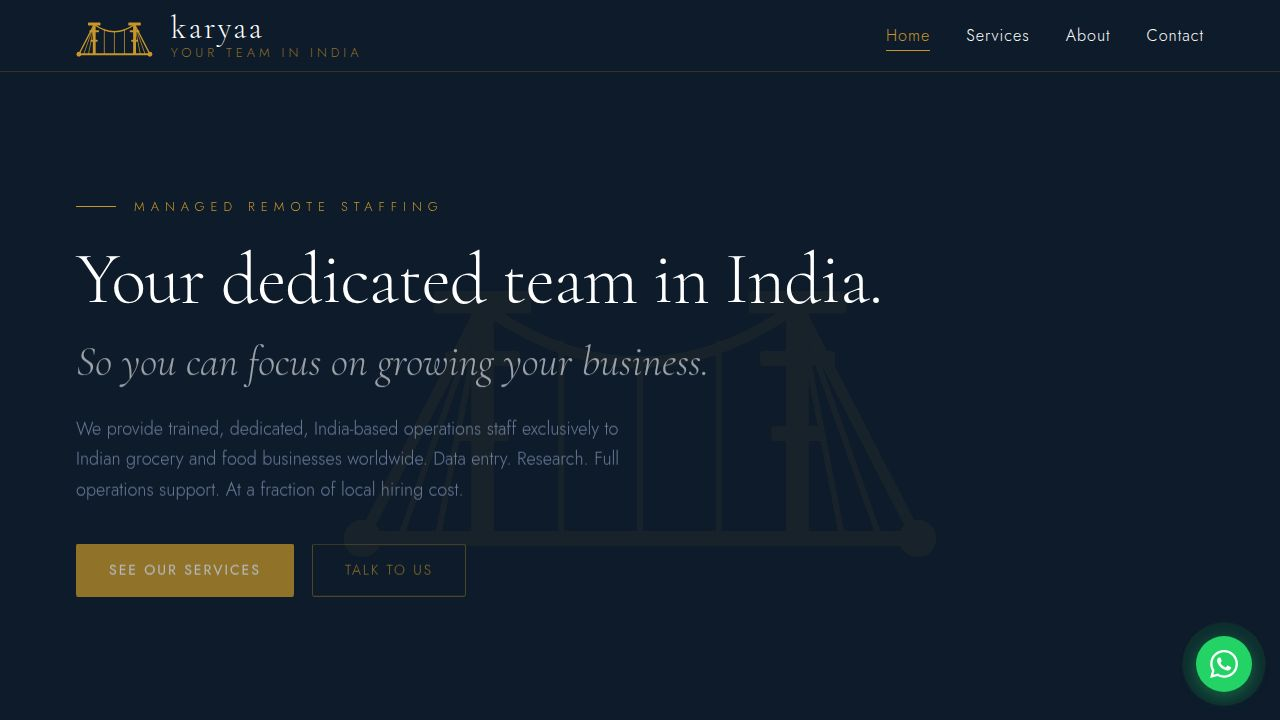
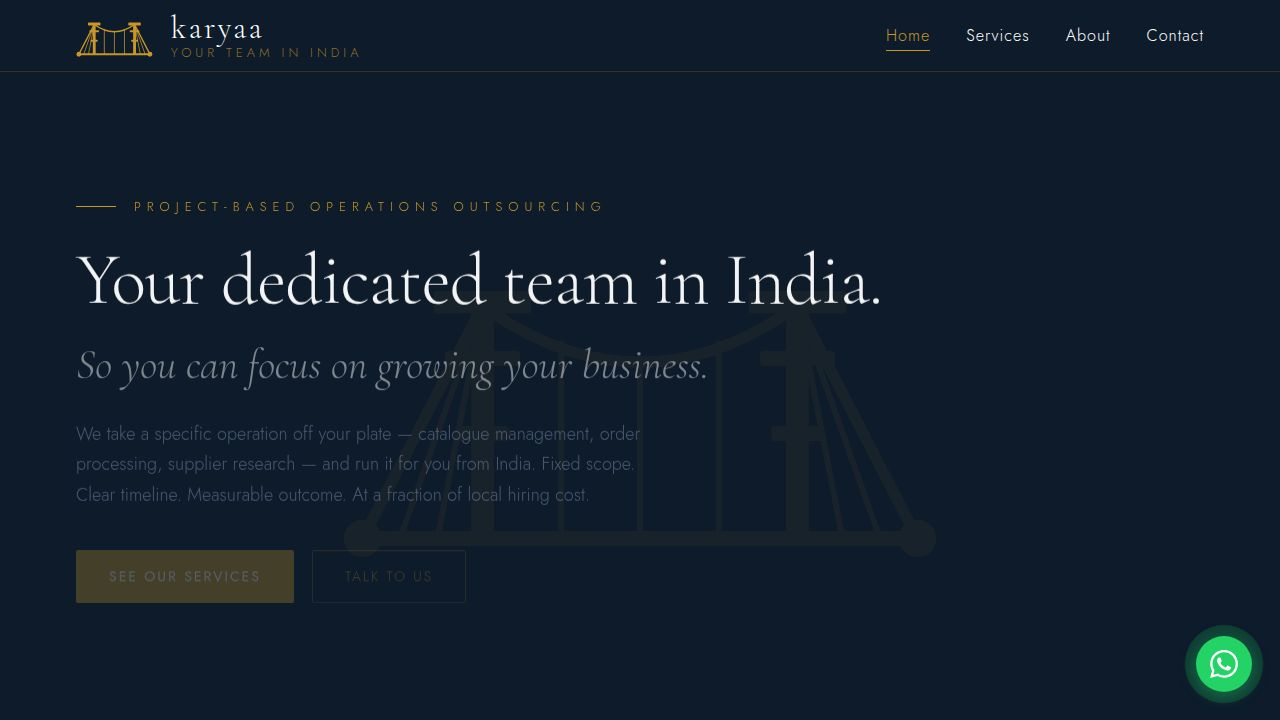
Add 'Real Projects' section to homepage (Task #70)
Inserted a new Section D between the "How It Works" section and the
footer in artifacts/karyaa-website/index.html.

Section details:
- Section label: "WHAT A KARYAA PROJECT LOOKS LIKE"
- Heading: "Real projects. Real outcomes."
- Subheading: "Here are three examples of what businesses like yours have outsourced to Karyaa."
- Three .diff-card project cards:
    1. Catalogue Clean-Up Project — 6 weeks, part-time, 1,200 listings
    2. Supplier Research Project — 8 weeks, full-time, 50 suppliers
    3. Order Processing Setup — 3 months, full-time, zero backlog
- CTA row: "Have something specific in mind? Tell us your project." with
  a .btn-primary "Book a Scoping Call" link to /contact.html

Implementation notes:
- Reused existing classes only: .why-section, .why-inner, .why-left,
  .why-right, .diff-card, .section-label, .why-heading, .why-body,
  .trust-strip-inner, .why-attribution, .lp-why-number, .btn-primary
- All three cards carry .reveal and delay-* classes for scroll animation
- No new CSS written; no other pages touched; footer unchanged

Replit-Task-Id: 03d534dc-8433-4553-b5a5-ad0806c62182

diff --git a/artifacts/karyaa-website/index.html b/artifacts/karyaa-website/index.html
@@ -265,6 +265,54 @@
         </div>
       </section>
 
+      <!-- ================================================================
+           SECTION D — Real Projects
+           ================================================================ -->
+      <section class="why-section" id="real-projects">
+        <div class="why-inner">
+
+          <!-- Left column -->
+          <div class="why-left reveal">
+            <div class="section-label">
+              <span class="section-label-line" aria-hidden="true"></span>
+              <span class="section-label-text">WHAT A KARYAA PROJECT LOOKS LIKE</span>
+            </div>
+
+            <h2 class="why-heading">Real projects. Real outcomes.</h2>
+
+            <p class="why-body">Here are three examples of what businesses like yours have outsourced to Karyaa.</p>
+
+            <div class="why-rule" aria-hidden="true"></div>
+          </div>
+
+          <!-- Right column — project cards -->
+          <div class="why-right">
+
+            <div class="diff-card reveal">
+              <span class="lp-why-number">CATALOGUE CLEAN-UP PROJECT</span>
+              <p class="diff-card-text">6 weeks · Part-time · 1,200 product listings cleaned, categorised, and uploaded to buyer portal. Ideal for importers and wholesalers with outdated or messy catalogues.</p>
+            </div>
+
+            <div class="diff-card reveal delay-100">
+              <span class="lp-why-number">SUPPLIER RESEARCH PROJECT</span>
+              <p class="diff-card-text">8 weeks · Full-time · 50 verified Indian suppliers identified, contacted, and compared across 5 product categories. Ideal for businesses expanding their product range.</p>
+            </div>
+
+            <div class="diff-card reveal delay-200">
+              <span class="lp-why-number">ORDER PROCESSING SETUP</span>
+              <p class="diff-card-text">3 months · Full-time · Full order-to-invoice cycle managed daily, with weekly reports and zero backlog. Ideal for growing wholesalers whose owners are still processing orders themselves.</p>
+            </div>
+
+          </div><!-- /why-right -->
+
+        </div><!-- /why-inner -->
+
+        <!-- CTA row — full-width, centred, below the card grid -->
+        <div class="trust-strip-inner reveal">
+          <p class="why-attribution">Have something specific in mind? Tell us your project. &nbsp;<a href="/contact.html" class="btn-primary">Book a Scoping Call</a></p>
+        </div>
+      </section>
+
     </main>
 
     <!-- ================================================================